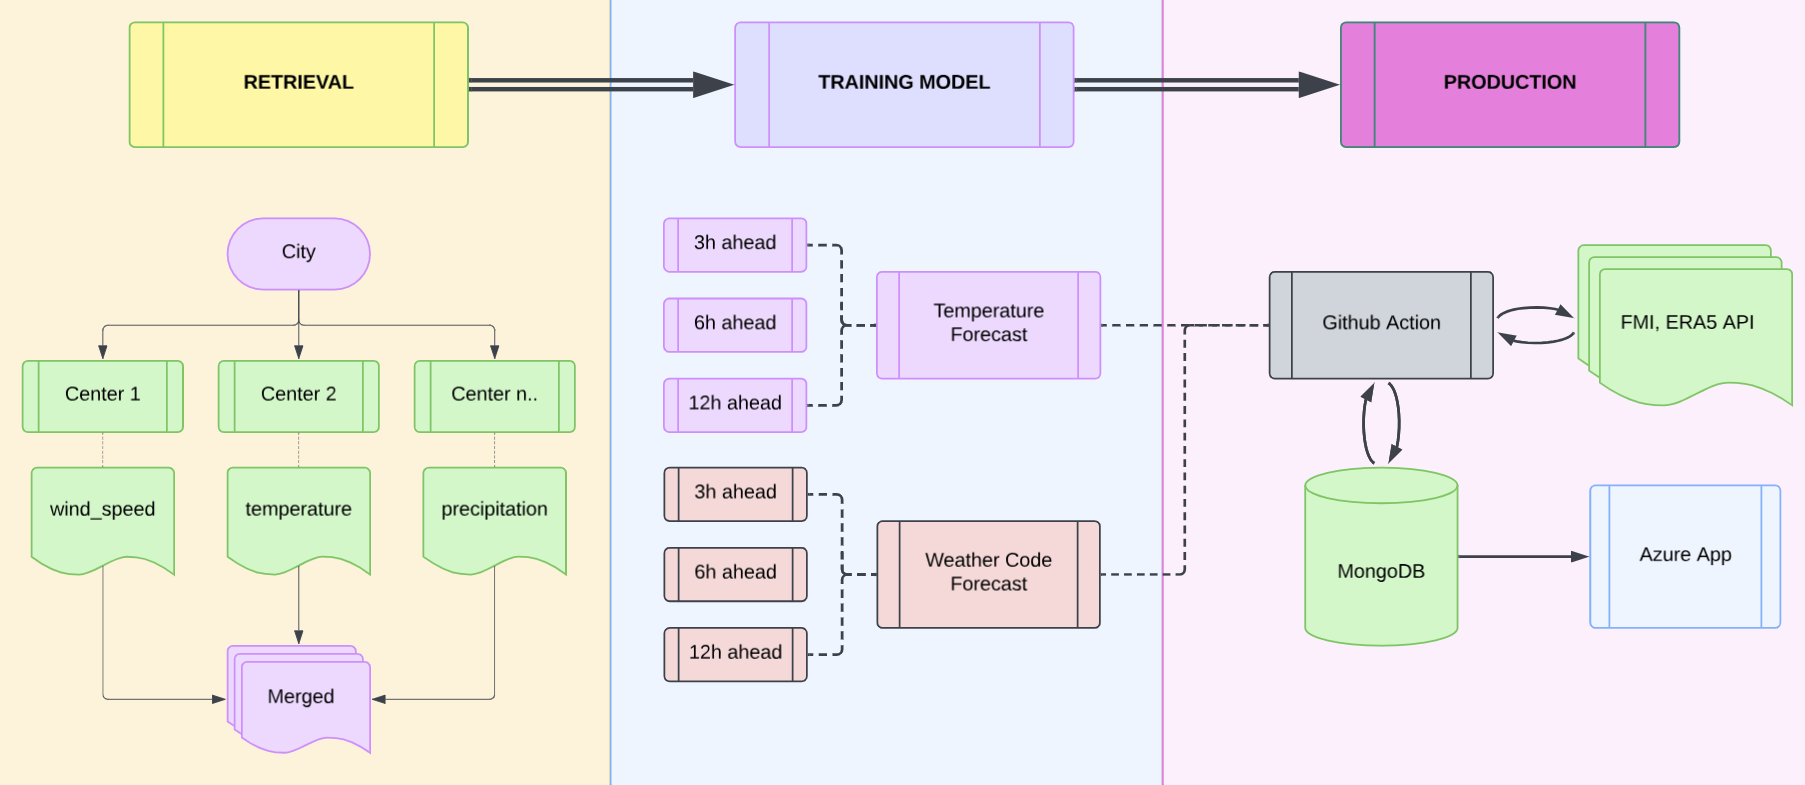
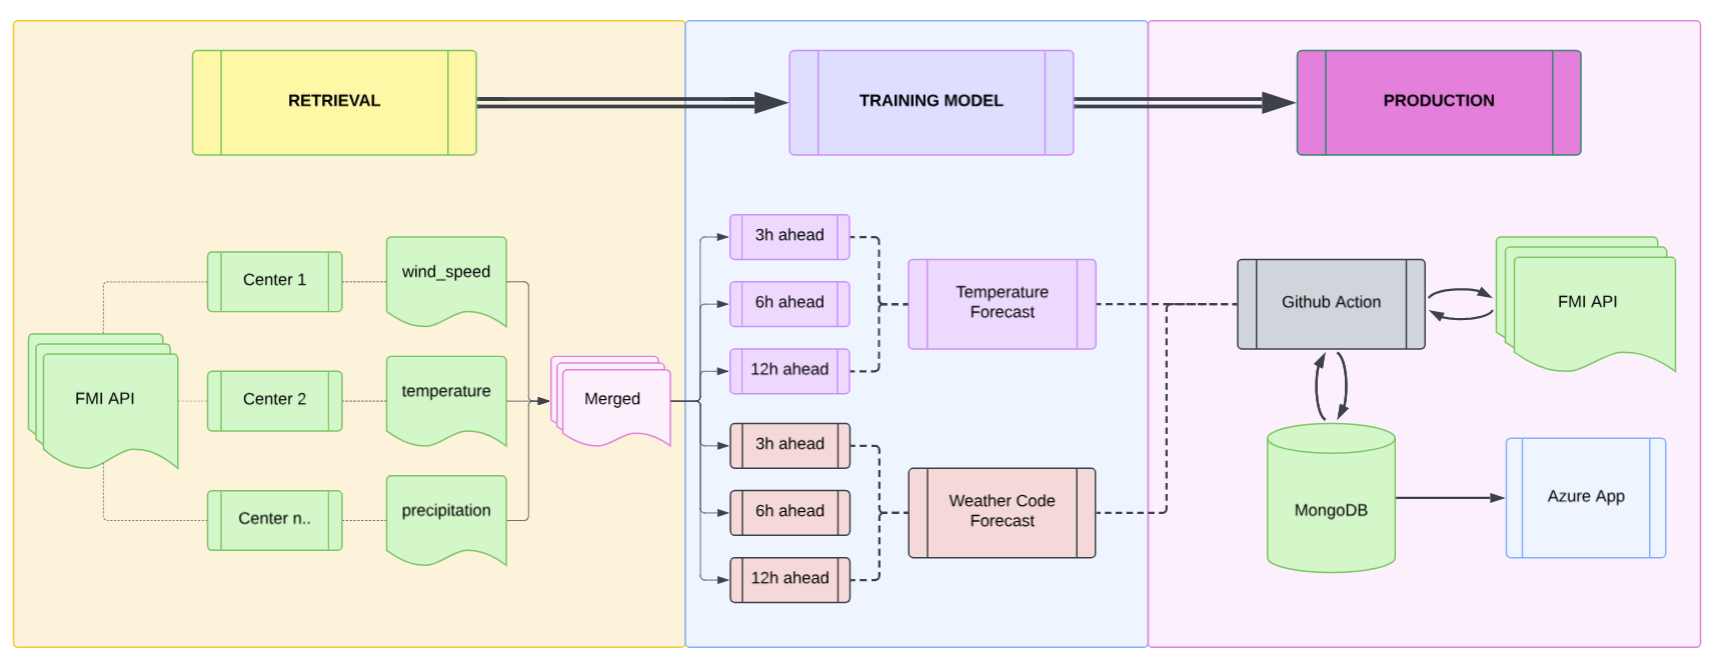
v3
broken atm

diff --git a/templates/index.html b/templates/index.html
@@ -139,6 +139,14 @@
         .tt-table td { padding: 0.25rem 0.3rem; text-align: center; }
         .tt-table tr td:first-child { text-align: left; }
 
+        .hover-bounce {
+            transition: transform 0.3s cubic-bezier(0.25, 1, 0.5, 1);
+        }
+
+        .hover-bounce:hover {
+            transform: translateY(-8px); /* Moves it up 8 pixels */
+        }
+
         /* Mobile */
         @media (max-width: 768px) {
             .app-header { padding: 0.75rem 1rem; }
@@ -407,6 +415,11 @@
                 </div>
                 <i class="bi bi-box-arrow-up-right ms-auto" style="font-size:0.9rem; color:#9CA3AF;"></i>
             </a>
+
+            <div class="mb-4 hover-bounce">
+                <img src="image.png" alt="Weather Predictor Pipeline" class="img-fluid" 
+                    style="border-radius: 0.75rem; border: 1px solid #374151; width: 100%;">
+            </div>
 
             <div class="grid-2col">
 

diff --git a/app.py b/app.py
@@ -107,6 +107,11 @@ def api_translate():
         logging.error(f"Translation request failed: {e}")
         return jsonify({"error": "Translation service unavailable. Please try again."}), 500
 
+from flask import send_from_directory
+
+@app.route('/image.png')
+def serve_image():
+    return send_from_directory('.', 'image.png')
 
 @app.route('/healthz', methods=['GET'])
 @talisman(force_https=False)

diff --git a/readMe.md b/readMe.md
@@ -10,10 +10,11 @@ A machine learning pipeline that predicts Finnish weather transitions using real
 
 ## Version History
 
-| Version | Date | Models | Horizons | Notable Changes |
-|---------|------|--------|----------|-----------------|
-| **v2** | 2026-03-06 | XGBoost (temp) + LightGBM (code) | +3h, +6h, +12h, +24h | Weather code classification (Clear / Rain / Snow), FMI Harmonie NWP comparison, dual WFS endpoints, gap-split evaluation |
-| **v1** | 2026-03-04 | XGBoost (temp) | +1h, +2h, +3h | Initial proof-of-concept, temperature-only forecasting, single WFS endpoint |
+| Version | Date  | Notable Changes |
+|---------|------|-----------------|
+| **v3** | 2026-04-02 | Minor Bug Fix and Documentation |
+| **v2** | 2026-03-06 | Weather code classification (Clear / Rain / Snow), FMI Harmonie NWP comparison, dual WFS endpoints, gap-split evaluation |
+| **v1** | 2026-03-04 | Initial proof-of-concept, temperature-only forecasting, single WFS endpoint |
 
 ![alt text](image.png)
 
